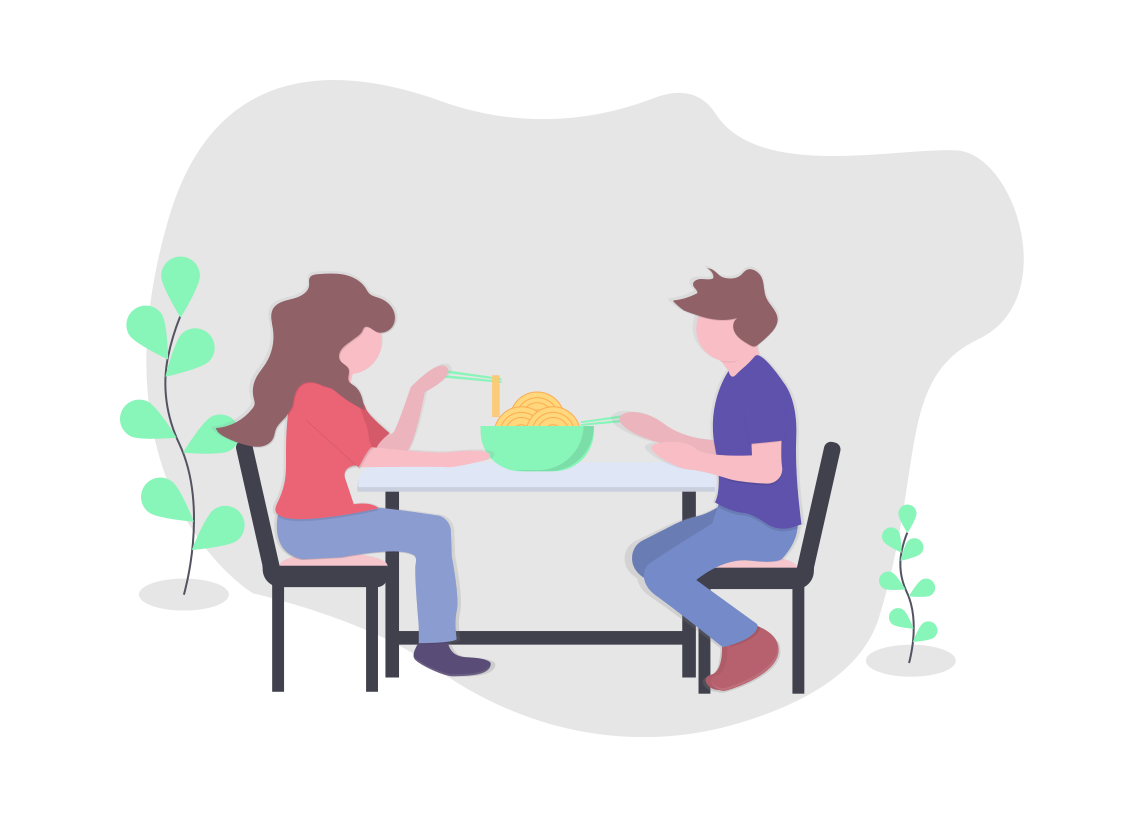
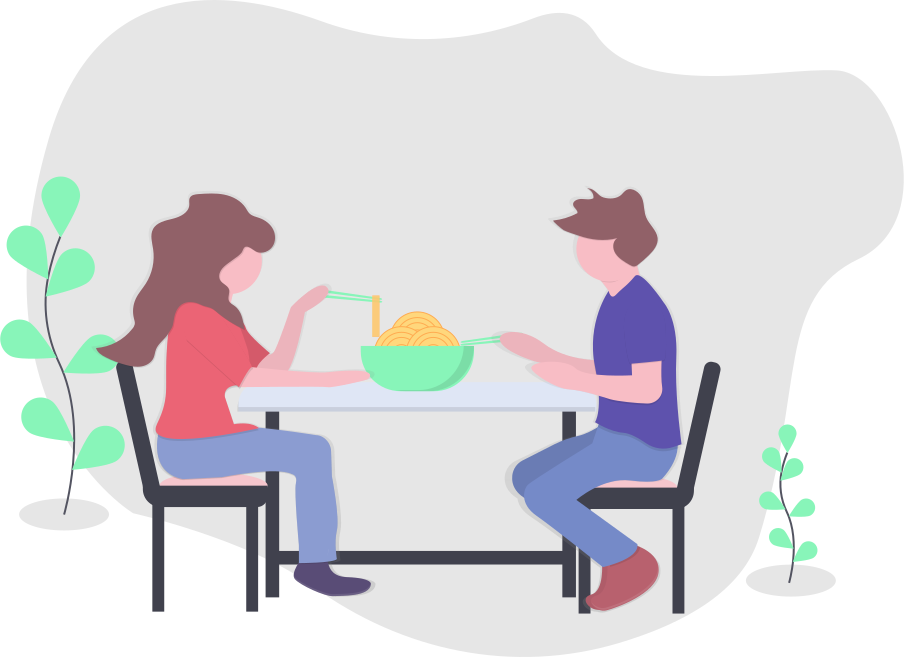
rushed css due to time // foundation and the foundation it was built upon.

diff --git a/src/pages/Home.js b/src/pages/Home.js
@@ -3,6 +3,7 @@ import "./Home.css";
 import logo from "../images/FULLR.png";
 import stat from "../images/stats.png";
 import stats from "../images/stats-2.png";
+import eating from "../images/undraw_eating.png"
 
 export default function Home() {
   return (
@@ -27,6 +28,9 @@ export default function Home() {
          <img   src = {stats}></img>
     </div>
     </div>
+    </div>
+    <div className="undraw">
+      <img src={eating} style={{ width:"50%"}} alt=""/>
     </div>
 
     </div>

diff --git a/src/pages/Home.css b/src/pages/Home.css
@@ -77,3 +77,13 @@ h2 {
   margin-top: -21rem;
   margin-left: 5rem;
 }
+
+.undraw {
+  display: flex;
+  justify-content: center;
+}
+.undraw img {
+  filter: drop-shadow(0rem 0rem 0.1rem black);
+  height: 50%;
+  margin-top: -25rem;
+}
